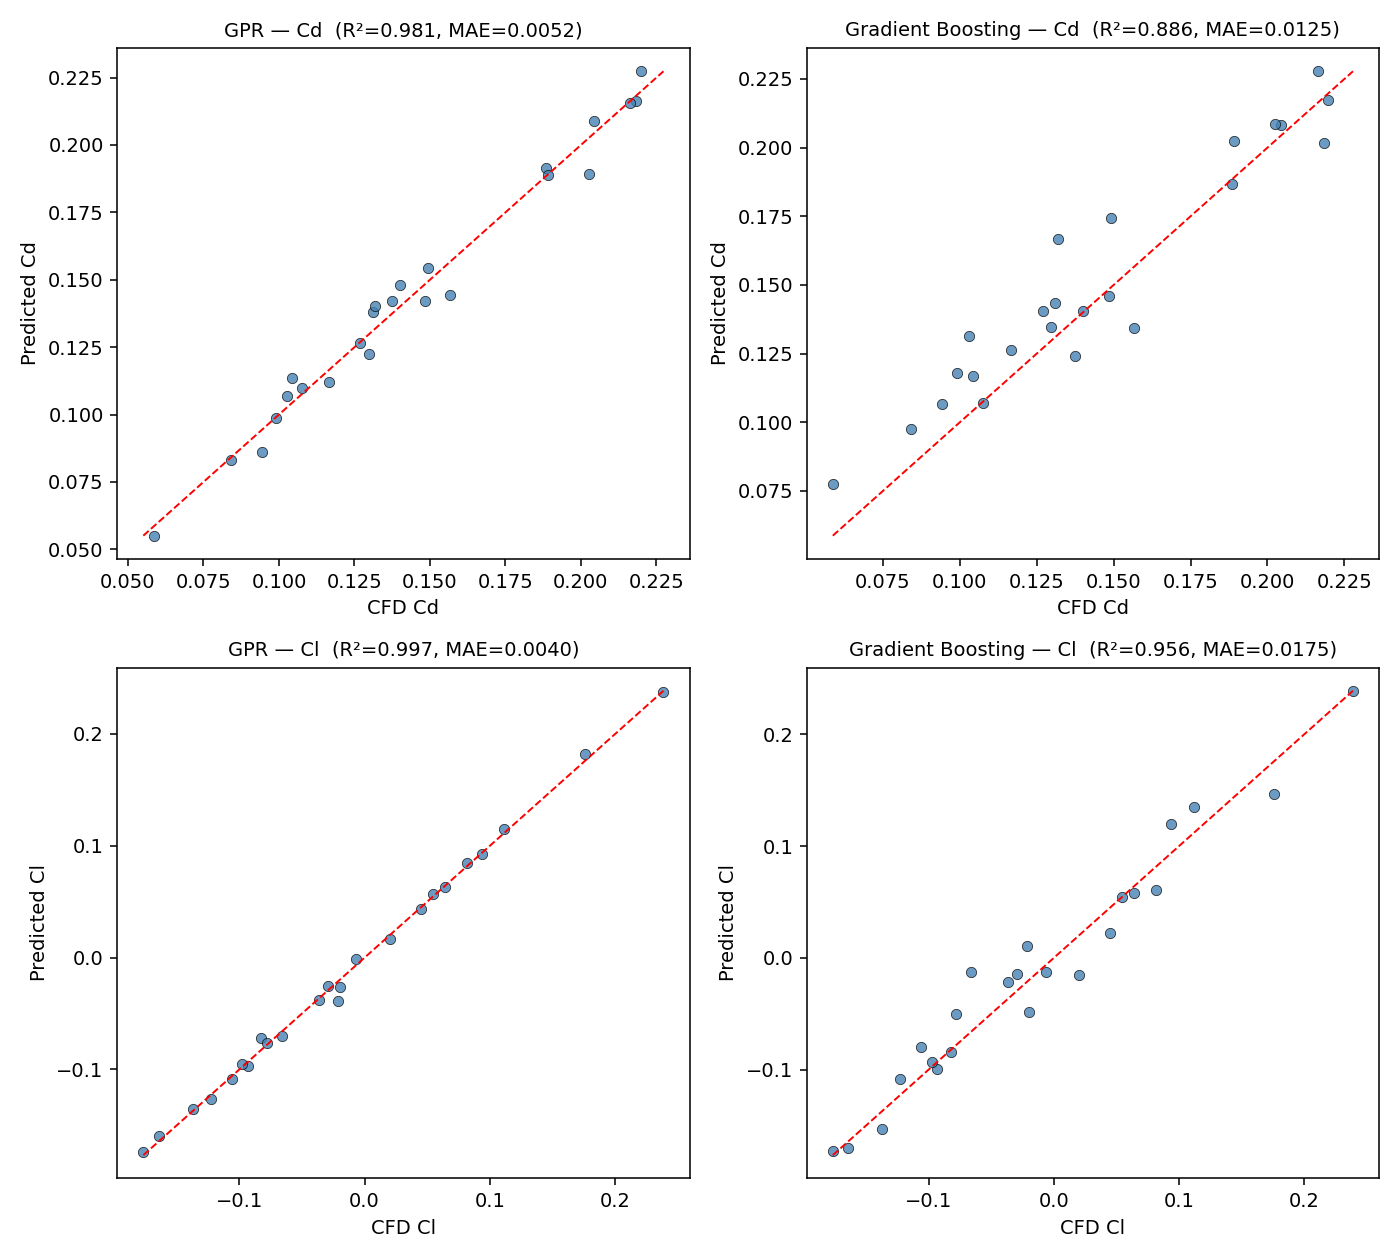
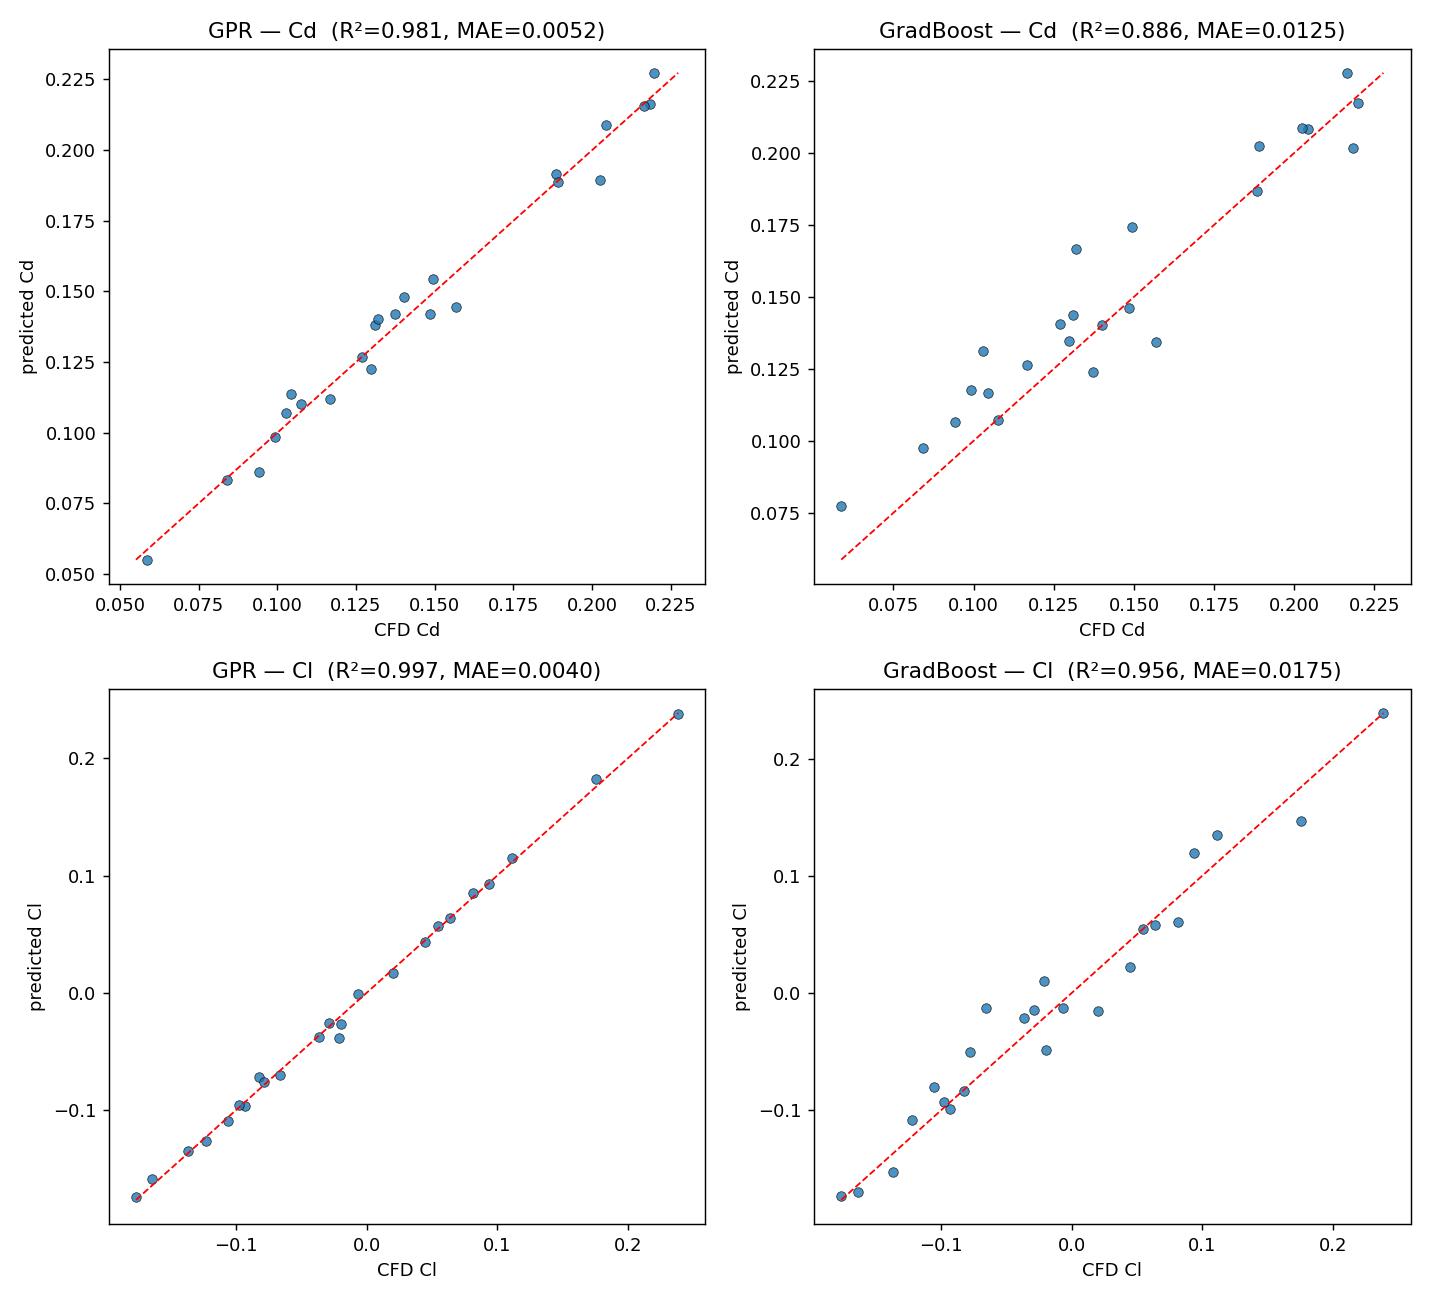
Review fixes: remove scaler leak, CV-based model selection, limitations section, pinned deps

diff --git a/src/train_surrogate.py b/src/train_surrogate.py
@@ -1,24 +1,20 @@
 """
-train_surrogate.py — ML surrogate for the CFD dataset.
+train_surrogate.py — ML surrogate for the CFD dataset.  (v2)
 
-Trains two model families on results.csv to predict Cd and Cl from the
-5 shape variables, evaluates them honestly, and saves the winner:
-
-  1. Gaussian Process Regression (GPR) — data-efficient, gives an
-     uncertainty estimate with every prediction. Usually the right tool
-     at ~100 samples.
-  2. Gradient Boosting — strong tree-based baseline for comparison.
-
-Evaluation protocol:
-  - 20% held-out test set the models NEVER see during training/tuning
-  - 5-fold cross-validation on the training set (small-data honesty)
-  - parity plots (predicted vs CFD truth) -> surrogate_parity.png
+v2 protocol fixes (post-review):
+  - StandardScaler is fit on the TRAINING split only (no preprocessing
+    leakage into the held-out test set)
+  - model selection (GPR vs gradient boosting) is done by 5-fold
+    cross-validation on the training set; the test set is used exactly
+    once, to report the selected model's final performance
+  - the shipped model is then refit on all 120 samples (standard practice
+    once evaluation is locked in)
 
 Outputs:
   surrogate.joblib        (dict: models, scaler, feature names, metadata)
   surrogate_parity.png
 
-Usage:  python3 train_surrogate.py       (needs results.csv in the folder)
+Usage:  python3 train_surrogate.py       (run from repo root; needs results.csv)
 """
 
 import numpy as np
@@ -34,6 +30,7 @@ from sklearn.gaussian_process.kernels import ConstantKernel, Matern, WhiteKernel
 from sklearn.inspection import permutation_importance
 from sklearn.metrics import mean_absolute_error, r2_score
 from sklearn.model_selection import KFold, cross_val_score, train_test_split
+from sklearn.pipeline import make_pipeline
 from sklearn.preprocessing import StandardScaler
 
 SEED = 42
@@ -56,31 +53,38 @@ def make_gbr():
                                      random_state=SEED)
 
 
+def pipe(factory):
+    """Scaler + model as one unit, so CV refits the scaler per fold."""
+    return make_pipeline(StandardScaler(), factory())
+
+
 def main():
     df = pd.read_csv("results.csv")
     X = df[FEATURES].values
-    scaler = StandardScaler().fit(X)
-    Xs = scaler.transform(X)
 
-    results, best_models = {}, {}
+    winners = {}
     fig, axes = plt.subplots(2, 2, figsize=(11, 10))
 
     for row, target in enumerate(TARGETS):
         y = df[target].values
-        Xtr, Xte, ytr, yte = train_test_split(Xs, y, test_size=0.2,
+        # split FIRST — the test set never influences any fitted component
+        Xtr, Xte, ytr, yte = train_test_split(X, y, test_size=0.2,
                                               random_state=SEED)
+        cv = KFold(5, shuffle=True, random_state=SEED)
+        scores = {}
         for col, (name, factory) in enumerate(
                 [("GPR", make_gpr), ("GradBoost", make_gbr)]):
-            model = factory()
-            cv = cross_val_score(factory(), Xtr, ytr, cv=KFold(5, shuffle=True,
-                                 random_state=SEED), scoring="r2")
-            model.fit(Xtr, ytr)
+            cv_r2 = cross_val_score(pipe(factory), Xtr, ytr, cv=cv,
+                                    scoring="r2").mean()
+            scores[name] = cv_r2
+
+            # fit on the training split and report test metrics (for the
+            # parity plot); selection itself uses only cv_r2
+            model = pipe(factory).fit(Xtr, ytr)
             pred = model.predict(Xte)
             mae = mean_absolute_error(yte, pred)
             r2 = r2_score(yte, pred)
-            results[(target, name)] = dict(cv_r2=cv.mean(), test_r2=r2,
-                                           test_mae=mae)
-            print(f"{target:>2} | {name:<9} | 5-fold CV R2={cv.mean():.3f} "
+            print(f"{target:>2} | {name:<9} | 5-fold CV R2={cv_r2:.3f} "
                   f"| test R2={r2:.3f} | test MAE={mae:.4f}")
 
             ax = axes[row, col]
@@ -91,39 +95,41 @@ def main():
             ax.set_ylabel(f"predicted {target}")
             ax.set_title(f"{name} — {target}  (R²={r2:.3f}, MAE={mae:.4f})")
 
-            # keep the better model per target (by test R2)
-            key = (target,)
-            if key not in best_models or r2 > best_models[key][1]:
-                best_models[key] = (name, r2, model)
+        chosen = max(scores, key=scores.get)          # selected by CV only
+        winners[target] = chosen
+        print(f"{target}: selected {chosen} by cross-validation "
+              f"(CV R2 {scores[chosen]:.3f} vs {min(scores.values()):.3f})")
 
-    # permutation importance of the best Cd model (physics sanity check)
-    cd_name, _, cd_model = best_models[("Cd",)]
+    # permutation importance of the selected Cd model on the held-out set
     y_cd = df["Cd"].values
-    Xtr, Xte, ytr, yte = train_test_split(Xs, y_cd, test_size=0.2,
+    Xtr, Xte, ytr, yte = train_test_split(X, y_cd, test_size=0.2,
                                           random_state=SEED)
+    cd_factory = make_gpr if winners["Cd"] == "GPR" else make_gbr
+    cd_model = pipe(cd_factory).fit(Xtr, ytr)
     imp = permutation_importance(cd_model, Xte, yte, n_repeats=30,
                                  random_state=SEED)
     order = np.argsort(imp.importances_mean)[::-1]
-    print(f"\nfeature importance for Cd ({cd_name}):")
+    print(f"\nfeature importance for Cd ({winners['Cd']}):")
     for i in order:
         print(f"   {FEATURES[i]:<15} {imp.importances_mean[i]:.4f}")
 
     plt.tight_layout()
     plt.savefig("surrogate_parity.png", dpi=130)
 
-    # retrain winners on ALL data before saving (standard practice:
-    # evaluation used the holdout; the shipped model uses every sample)
+    # ship: refit scaler + selected models on ALL data
+    scaler = StandardScaler().fit(X)
+    Xs = scaler.transform(X)
     final = {}
     for target in TARGETS:
-        name, r2, _ = best_models[(target,)]
-        model = make_gpr() if name == "GPR" else make_gbr()
-        model.fit(Xs, df[target].values)
-        final[target] = model
-        print(f"\nshipped {target} model: {name} "
-              f"(holdout R2 was {r2:.3f}), retrained on all 120 samples")
+        factory = make_gpr if winners[target] == "GPR" else make_gbr
+        final[target] = factory().fit(Xs, df[target].values)
+        print(f"\nshipped {target} model: {winners[target]} "
+              f"(selected by CV), retrained on all {len(df)} samples")
 
     joblib.dump(dict(models=final, scaler=scaler, features=FEATURES,
                      metadata=dict(n_samples=len(df), seed=SEED,
+                                   protocol="v2: scaler fit on train split; "
+                                            "model selection by 5-fold CV",
                                    source="OpenFOAM kOmegaSST fine mesh, "
                                           "U=30 m/s, Re_L=2e6")),
                 "surrogate.joblib")

diff --git a/README.md b/README.md
@@ -2,7 +2,7 @@
 
 **120 automated OpenFOAM simulations → Gaussian Process surrogate (R² = 0.98) → evolutionary optimization → CFD-verified result.**
 
-The optimizer found a shape with **Cd = 0.047** — 64% lower drag than the baseline and **20% lower than any design in the training data** — and a blind CFD run confirmed the surrogate's prediction within its own stated uncertainty.
+The optimizer found a shape with **Cd = 0.047** — 64% lower drag than the mid-range seed design and **20% lower than any design in the training data** — and a blind CFD run confirmed the surrogate's prediction within its own stated uncertainty.
 
 <p align="center">
   <img src="figures/optimized.png" width="360" alt="Optimized geometry">
@@ -56,6 +56,16 @@ blind CFD validation — predicted Cd 0.0493 ± 0.0057, CFD gave 0.0470 ✓
 - **Uncertainty-penalized optimization.** The GPR reports its own confidence; the evaluator scores candidates by −(Cd + σ), so the optimizer can't exploit regions the CFD never sampled.
 - **The physics checks out.** Permutation importance ranks boat-tail angle and tail length as dominant for drag — consistent with wake physics of ground vehicles — and the optimizer avoided the steep-backlight regime associated with the Ahmed-body drag crisis without being told about it.
 
+## Limitations
+
+- **Simplified geometry.** The 5-parameter body family captures gross shape effects (nose, tail, taper) but not real-vehicle features like wheels, underbody detail, or surface curvature continuity.
+- **Mesh independence was verified on one design.** The convergence ladder used run_000; mesh error could differ elsewhere in the design space, particularly at extreme tail angles.
+- **No prism layers.** The mesh resolves pressure drag well but under-resolves wall friction, so absolute Cd values are likely biased low; comparisons *between* designs (the quantity the surrogate learns) are less affected.
+- **Two blind CFD validations.** Both landed within the model's uncertainty band, but two points is evidence, not proof, of accuracy everywhere in the design space.
+- **Single operating point.** All data is at 30 m/s, zero yaw, steady RANS — no crosswind, transient wake dynamics, or Reynolds sweep.
+
+Each of these is addressable with more compute: mesh checks at design-space corners, prism-layer meshing, more validation points, and multi-condition datasets.
+
 ## Repository guide
 
 | File | Role |
@@ -79,6 +89,7 @@ blind CFD validation — predicted Cd 0.0493 ± 0.0057, CFD gave 0.0470 ✓
 pip install -r requirements.txt
 # run all commands below from the repository root
 # Docker Desktop must be running
+# for the optimization step: export OPENAI_API_KEY=<your Gemini API key>
 
 python3 src/sample_designs.py            # generate the 120-design DoE
 python3 src/mesh_check.py                # (optional) mesh sensitivity, rung 1